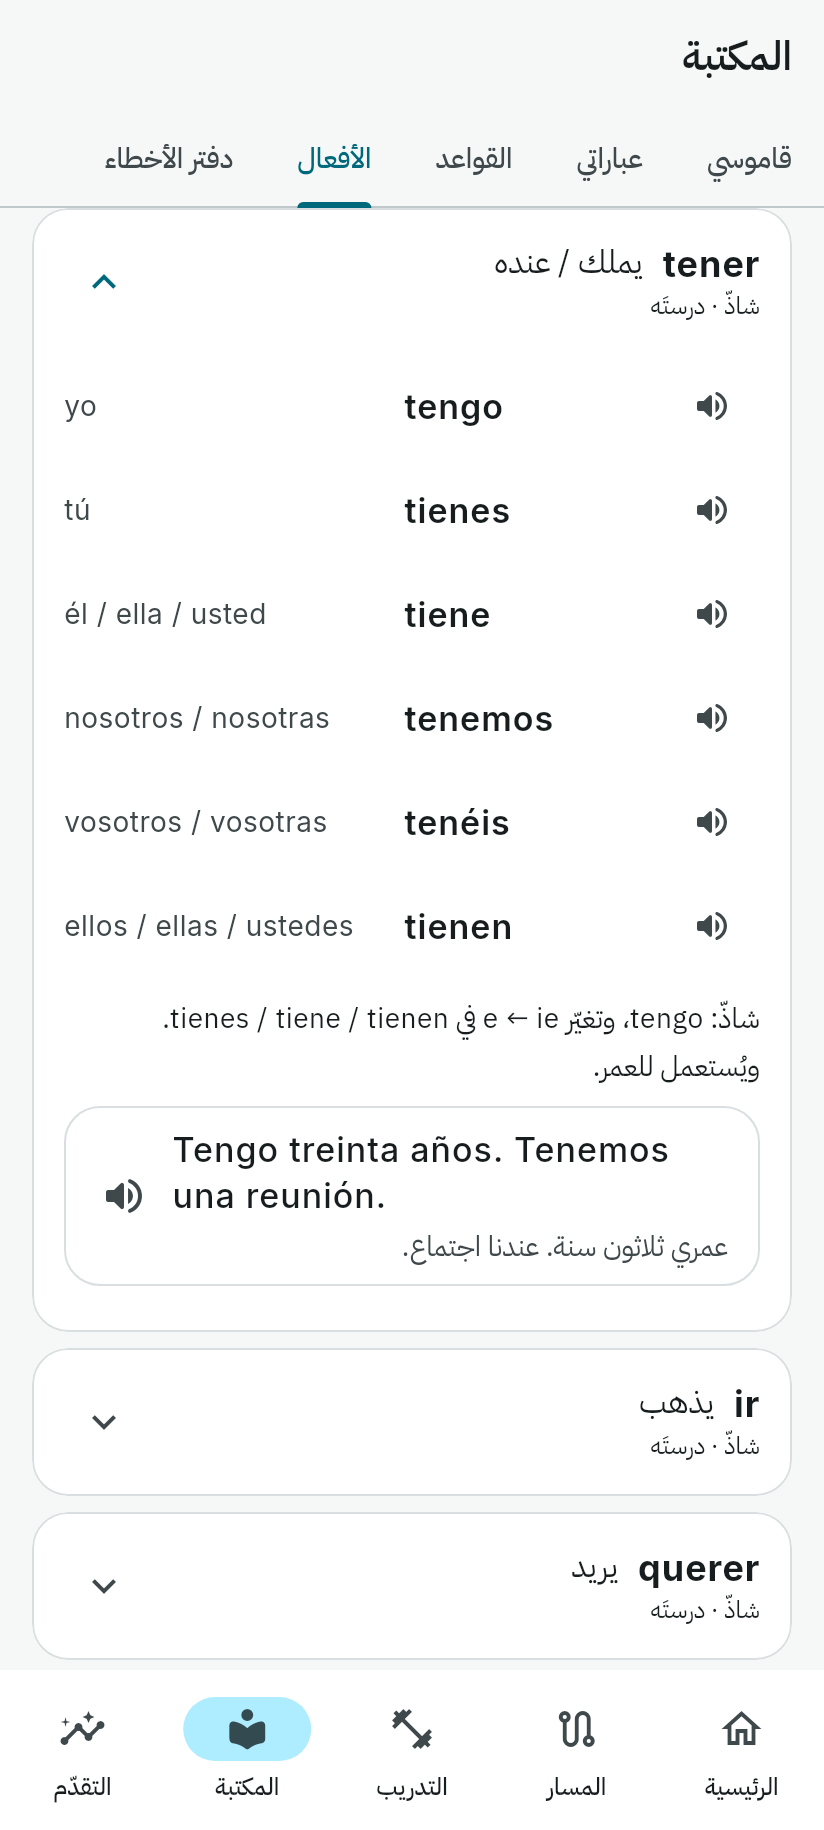
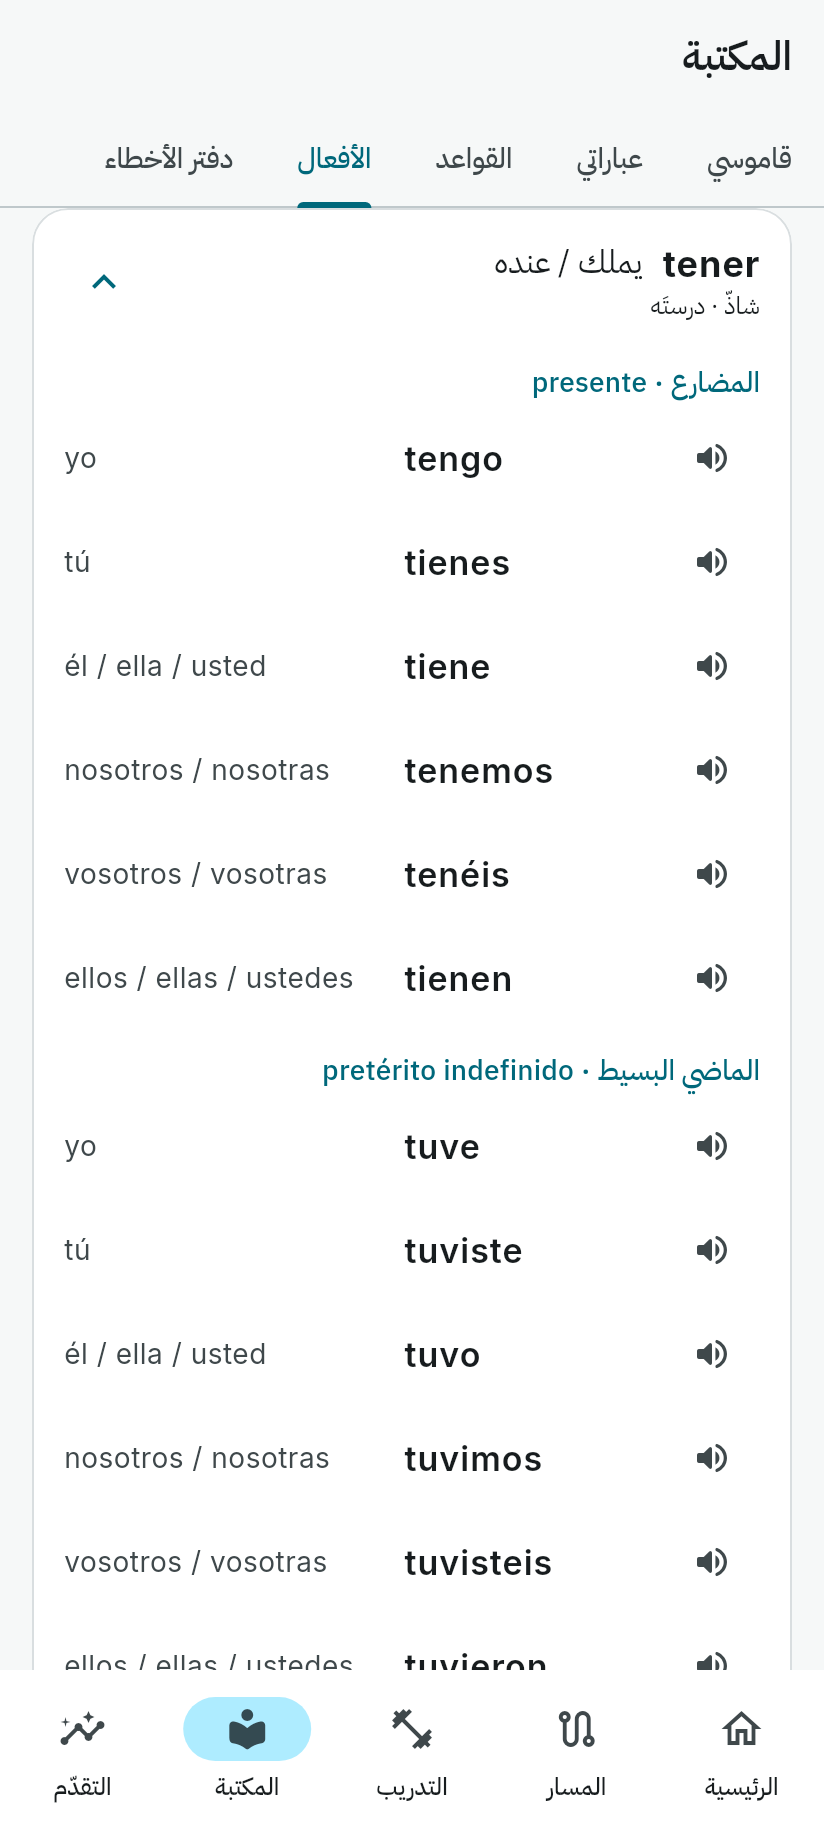
docs: A2-U2 curriculum, schema, status and screenshots
Screenshots 07 (A2 progress 0/10), 22 and 23 (verb reference with the past
table) regenerated.

Claude-Session: https://claude.ai/code/session_014cGpiLUDDmKQRUcCZEH4q9

diff --git a/docs/CURRICULUM.md b/docs/CURRICULUM.md
@@ -42,7 +42,8 @@ Pre-A1 is a preparatory stage, not a DELE level.
 | | At the workplace (4 lessons) | ✅ available (content 1.4.0) |
 | | **A1 level assessment** (24 questions, all six units) | ✅ available |
 | **A2** | Services and everyday transactions (5 lessons) | ✅ available (content 1.5.0) |
-| | The past · Plans and future · Preferences and comparison · Simple work conversations | planned |
+| | The past — what happened? (5 lessons, pretérito indefinido) | ✅ available (content 1.6.0) |
+| | Plans and future · Preferences and comparison · Simple work conversations | planned |
 | **B1** | Opinion and reasoning · Narration · Solving client problems · Professional correspondence | planned |
 | **B2** | Meetings · Presentations · Job interviews · Discovery and negotiation · Explaining technical services | planned |
 | **C1** | Persuasion · Precise professional writing · Advanced listening and accents | planned |
@@ -93,6 +94,11 @@ no lessons and are never counted as progress.
 | 35 | It doesn't work | 8 | no funciona, roto/rota with estar; object pronouns lo / la; desde ayer + present |
 | 36 | A complaint | 8 | el problema (masculine); error, cobrar, devolver (o→ue); ¿Me puede ayudar? |
 | 37 | Customer service, your side | 9 | disculpe las molestias; present for immediate promises; le envío…; comprobar (o→ue) |
+| 38 | Yesterday (A2-U2) | 9 | pretérito indefinido -ar (trabajé, habló); ayer, anoche, el lunes pasado; final-accent tense contrast |
+| 39 | My last weekend | 10 | -er / -ir past (salí, volví, comimos); primero, después, luego, al final; a short story |
+| 40 | A workday in the past | 9 | yo spelling changes (llegué, empecé); envié, revisé, preparé; ya / todavía no; a work update |
+| 41 | My last trip | 9 | irregular fui / fue (ir and ser), hice / hizo, tuve; el viaje, el vuelo; a travel narrative |
+| 42 | What happened with the client? | 9 | ¿Qué pasó?; se quejó, expliqué, solucioné; past for events vs present for the current state; follow-up |
 
 A1 is complete in content: 23 lessons over 6 units, closed by six unit
 checkpoints and the A1 level assessment `lvl_a1`, which opens only when every
@@ -104,9 +110,16 @@ complaints, ending with the learner on the provider's side of a complaint.
 Its first lesson follows the last A1 lesson. The A1 level assessment stays
 visible on the path until it has been taken once.
 
-Totals (content 1.5.0, from the validator): 37 lessons, 306 items,
-983 activities (598 graded), 40 grammar notes, 19 dialogues, 11 assessments,
-22 verbs.
+A2-U2 (lessons 38–42, content 1.6.0) teaches the pretérito indefinido in
+five steps: regular -ar, then -er/-ir with sequencing, then the yo spelling
+changes, then the irregular ir/ser, hacer and tener, and finally a connected
+client report contrasting past events with the present state. Lesson 41 is
+the first place irregular past forms are practised or assessed. The verb
+reference now shows the past of all 32 verbs.
+
+Totals (content 1.6.0, from the validator): 42 lessons, 352 items,
+1142 activities (699 graded), 48 grammar notes, 22 dialogues, 12 assessments,
+32 verbs.
 
 ## Lesson shape
 
@@ -164,6 +177,15 @@ Accent: default voice es-MX (seseo); notes point out Castilian differences
 
 Checkpoint `chk_a2_u1` (12 questions, 3 can-dos, three play dialogue
 sentences) closes A2-U1.
+
+| Id | Level | Built on | Situation |
+|---|---|---|---|
+| `dlg_a2_finde` | A2 | lessons 38–39 | Monday small talk about the weekend |
+| `dlg_a2_jornada` | A2 | lesson 40 | End-of-day update to the team manager |
+| `dlg_a2_viaje` | A2 | lessons 41–42 | Back from a business trip; a client complaint handled |
+
+Checkpoint `chk_a2_u2` (12 questions, 3 can-dos, 5 skills, three dialogue
+sentences) closes A2-U2.
 
 Checkpoints `chk_a1_u4` and `chk_a1_u5` close the food and travel units.
 Checkpoints `chk_a1_u2` and `chk_a1_u3` (10 questions, 3 can-dos each) close

diff --git a/AI_BRIDGE/PROJECT_PLAN.md b/AI_BRIDGE/PROJECT_PLAN.md
@@ -1,8 +1,8 @@
 # Español Pro — الخطة الشاملة للمشروع
 
 owner: Claude Code
-plan_version: 9
-updated_at_utc: 2026-11-17T18:00:00Z
+plan_version: 10
+updated_at_utc: 2026-11-17T21:00:00Z
 يُحدَّث مع كل handoff. آخر حالة تنفيذ مرجعية: `AI_BRIDGE/CLAUDE_STATUS.md`.
 
 هذه الوثيقة تغطي **كل** أقسام المواصفة الرئيسية (1–28) وتفصل بصرامة بين أربع حالات:
@@ -65,8 +65,9 @@ updated_at_utc: 2026-11-17T18:00:00Z
 | Pre-A1 كاملاً: 3 وحدات، 9 دروس | ✅ | مدقّق المحتوى |
 | A1 الوحدة 1: 3 دروس | ✅ | مدقّق المحتوى |
 | A1 الوحدات 2–6 | ⬜ | المرحلة 1.3 |
-| A2 الوحدة 1: الخدمات والتعاملات اليومية (5 دروس) | 🟡 | محتوى 1.5.0، `a2_units_test`؛ قيد المراجعة |
-| A2 الوحدات 2–5 واختبار مستوى A2 | ⬜ | المرحلة 3 |
+| A2 الوحدة 1: الخدمات والتعاملات اليومية (5 دروس) | ✅ | محتوى 1.5.0؛ دُمج في PR #12 (`004e54d`) بموافقة REVIEW-014؛ الجهاز والمراجعة اللغوية معلّقان |
+| A2 الوحدة 2: الماضي — ماذا حدث؟ (5 دروس، pretérito indefinido) | 🟡 | محتوى 1.6.0، `a2_u2_past_test`؛ قيد المراجعة |
+| A2 الوحدات 3–5 واختبار مستوى A2 | ⬜ | المرحلة 3 |
 | B1، B2، C1، C2 | ⬜ | عناوين وأهداف فقط |
 | مراجعة لغوية بشرية للمحتوى | ⛔ | كل المحتوى `author_reviewed` (مكتوب ومدقَّق آلياً) |
 
@@ -282,7 +283,7 @@ updated_at_utc: 2026-11-17T18:00:00Z
 
 A2 ثم B1 ثم B2 (كل مستوى handoffs متعددة، وحدة أو وحدتان لكل handoff)، مكتبة القراءة، اختبارات المستويات، **مراجعة مدرّس إسباني قبل ترقية المحتوى إلى `native_reviewed`**.
 
-التقدّم: A2-U1 (الخدمات: البنك، البريد، الأعطال، الشكاوى، خدمة العملاء من جهتك) — 5 دروس، 3 حوارات، نقطة تحقق، 6 أفعال جديدة في المرجع — 🟡 قيد المراجعة (handoff PHASE3-001). التالي: A2-U2 الماضي (pretérito indefinido).
+التقدّم: A2-U1 (الخدمات: البنك، البريد، الأعطال، الشكاوى، خدمة العملاء من جهتك) — 5 دروس، 3 حوارات، نقطة تحقق، 6 أفعال جديدة في المرجع — 🟡 قيد المراجعة (handoff PHASE3-001). ثم A2-U2 (الماضي: 5 دروس، 3 حوارات، نقطة تحقق، صيغ الماضي لـ 32 فعلاً) — 🟡 قيد المراجعة (handoff PHASE3-003). التالي: A2-U3 الخطط والمستقبل.
 
 ### 4 — الإسبانية المهنية
 
@@ -311,7 +312,7 @@ C1، C2، اللهجات الإقليمية، تدريب أصلي بأسلوب D
 |---|---|---|---|
 | Pre-A1 | 3 | 9 | 9 |
 | A1 | 6 | ~22 | 3 |
-| A2 | 5 | ~35 | 5 |
+| A2 | 5 | ~35 | 10 |
 | B1 | 4 | ~45 | 0 |
 | B2 | 5 | ~60 | 0 |
 | C1 | 3 | ~60 | 0 |

diff --git a/docs/IMPLEMENTATION_STATUS.md b/docs/IMPLEMENTATION_STATUS.md
@@ -144,6 +144,16 @@ detect it.
 | Path: a completed level stays expanded until its level assessment has been taken once, so starting A2 does not hide the A1 level assessment | `verbs_and_level_test` |
 | Checkpoint options (every unit checkpoint and level assessment, Pre-A1 to A2) are shown in a per-attempt shuffled order, stable within the attempt; grading by option text is unchanged (REVIEW-012 P1) | `assessment_order_test`, `assessment_flow_test` |
 
+## A2-U2 the past — what happened? (PR in review)
+
+| Area | Evidence |
+|---|---|
+| 5 lessons (38–42) after `a2_u1_l5`: -ar past, -er/-ir past + sequencing, yo spelling changes + ya/todavía no, irregular ir/ser·hacer·tener, past vs present in a client report; 46 items, 8 grammar notes; content 1.6.0 | `a2_u2_past_test`, `a2_units_test` (every lesson completed in the app) |
+| 3 dialogues, each within difficulty limits right after its lessons | `a2_u2_past_test`, `difficulty_test` |
+| Checkpoint `chk_a2_u2`: 12 questions, 3 can-dos, 5 skills, shuffled options, scores persist across reopen and retry | `a2_u2_past_test`, `assessment_order_test` |
+| Verb reference: optional, backward-compatible past tense; all 32 verbs (10 new) with six past forms; regular pasts machine-checked including saqué / llegué / empecé; past table in Library → الأفعال | `a2_u2_past_test`, `verbs_and_level_test` |
+| Evaluator: a missing final é/ó accent in words of 5+ letters (habló, trabajé, envió) is a different form, not a slip; short words unchanged (café) | `a2_u2_past_test`, `answer_evaluator_test` |
+
 ## Android build and runtime
 
 - The [code commit's CI run](https://github.com/abdulrahmanal-saeed/Espa-ol-Pro/actions/runs/43900871431)
@@ -175,7 +185,7 @@ detect it.
   pronunciation assessment. Listen-and-repeat is self-practice and never scored.
 - CEFR level estimates and the A1 level assessment (unit checkpoints exist; they are practice evidence, not certification).
 - Verb conjugation reference, stories.
-- Interview coach, work missions, A2-U2 to A2-U5, the A2 level assessment, and all B1–C2 lessons.
+- Interview coach, work missions, A2-U3 to A2-U5, the A2 level assessment, and all B1–C2 lessons.
 - Cloud sync. AI usage budget controls (nothing to budget yet).
 - Native-speaker review of content.
 

diff --git a/docs/CONTENT_SCHEMA.md b/docs/CONTENT_SCHEMA.md
@@ -194,6 +194,18 @@ proven on a broken copy in `test/assessment_content_test.dart`.
 }] }
 ```
 
+Content ≥ 1.6.0 may add the pretérito indefinido:
+
+```jsonc
+  "preterite": { "yo": "volví", "tu": "volviste", "el": "volvió",
+                 "nosotros": "volvimos", "vosotros": "volvisteis", "ellos": "volvieron" },
+  "preterite_regular": true   // optional; defaults to "regular"
+```
+
+Both keys are optional, so older files keep loading. When `preterite` is
+given, all six persons are required. A regular past must equal the rules,
+including the yo spelling changes (-car → qué, -gar → gué, -zar → cé).
+
 Validation: unique ids; Arabic gloss; all six persons present, no Arabic
 script, no unknown person keys; **a regular verb's six forms must equal the
 -ar / -er / -ir rules exactly** (so a typo such as *hablámos* is rejected);

diff --git a/README.md b/README.md
@@ -16,9 +16,10 @@ content, FSRS spaced repetition, no accounts, no ads, no tracking.
 
 ## What works today
 
-- 37 original lessons (9 Pre-A1, 23 A1, 5 A2), 306 vocabulary items, 598 graded
-  exercises, 40 grammar notes, 19 dialogues, 11 checkpoints and level tests,
-  a 22-verb conjugation reference — plus the full Pre-A1 → C2 curriculum map.
+- 42 original lessons (9 Pre-A1, 23 A1, 10 A2), 352 vocabulary items, 699 graded
+  exercises, 48 grammar notes, 22 dialogues, 12 checkpoints and level tests,
+  a 32-verb conjugation reference (present and past) — plus the full
+  Pre-A1 → C2 curriculum map.
 - Lesson engine with 11 exercise types (meaning choice, listening, dictation,
   fill-in, sentence ordering, matching, typed translation, situational reply,
   listen-and-repeat…). Wrong answers are explained, retried and logged.
